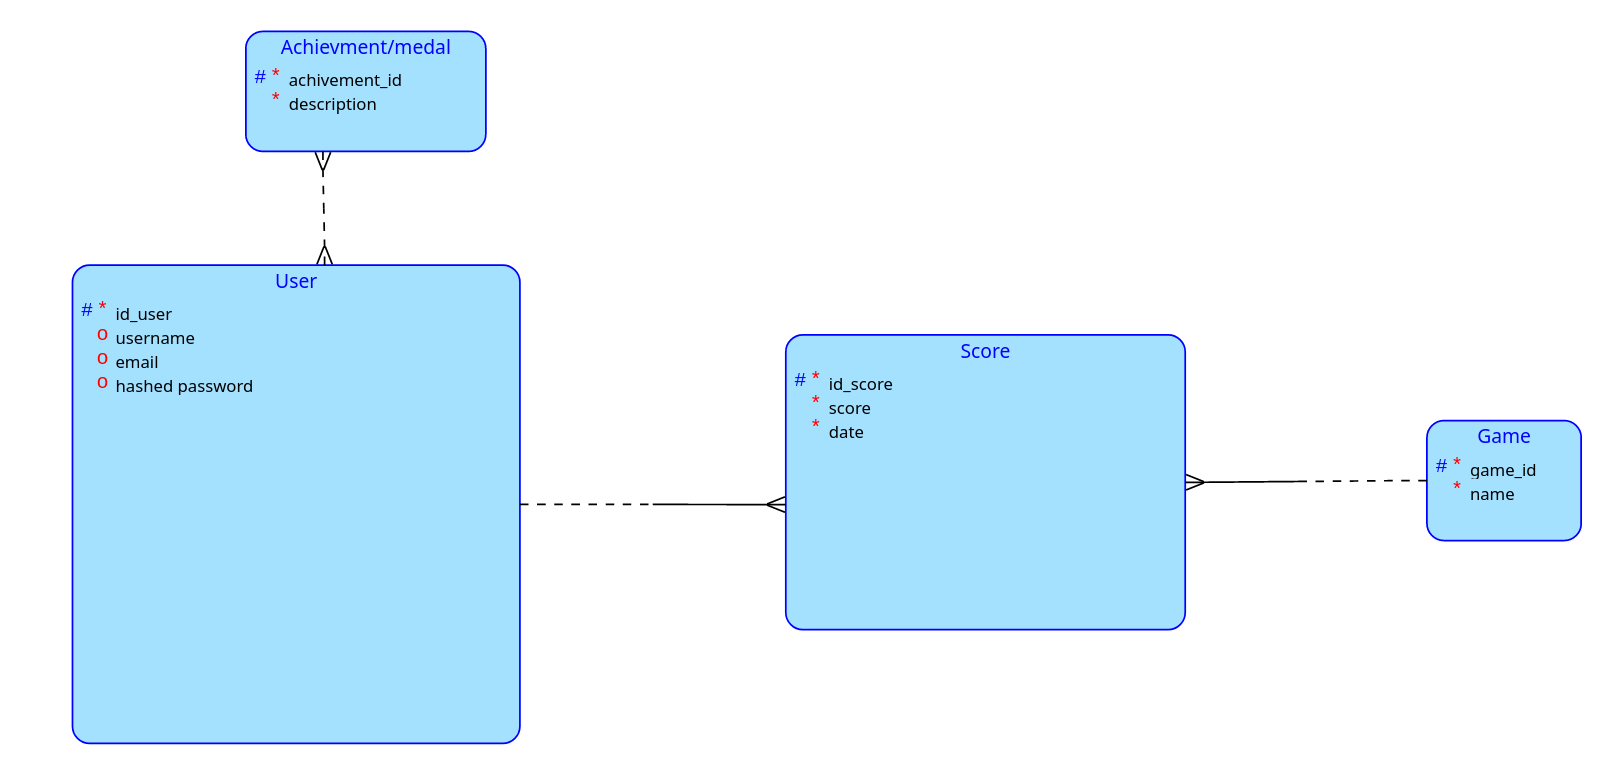
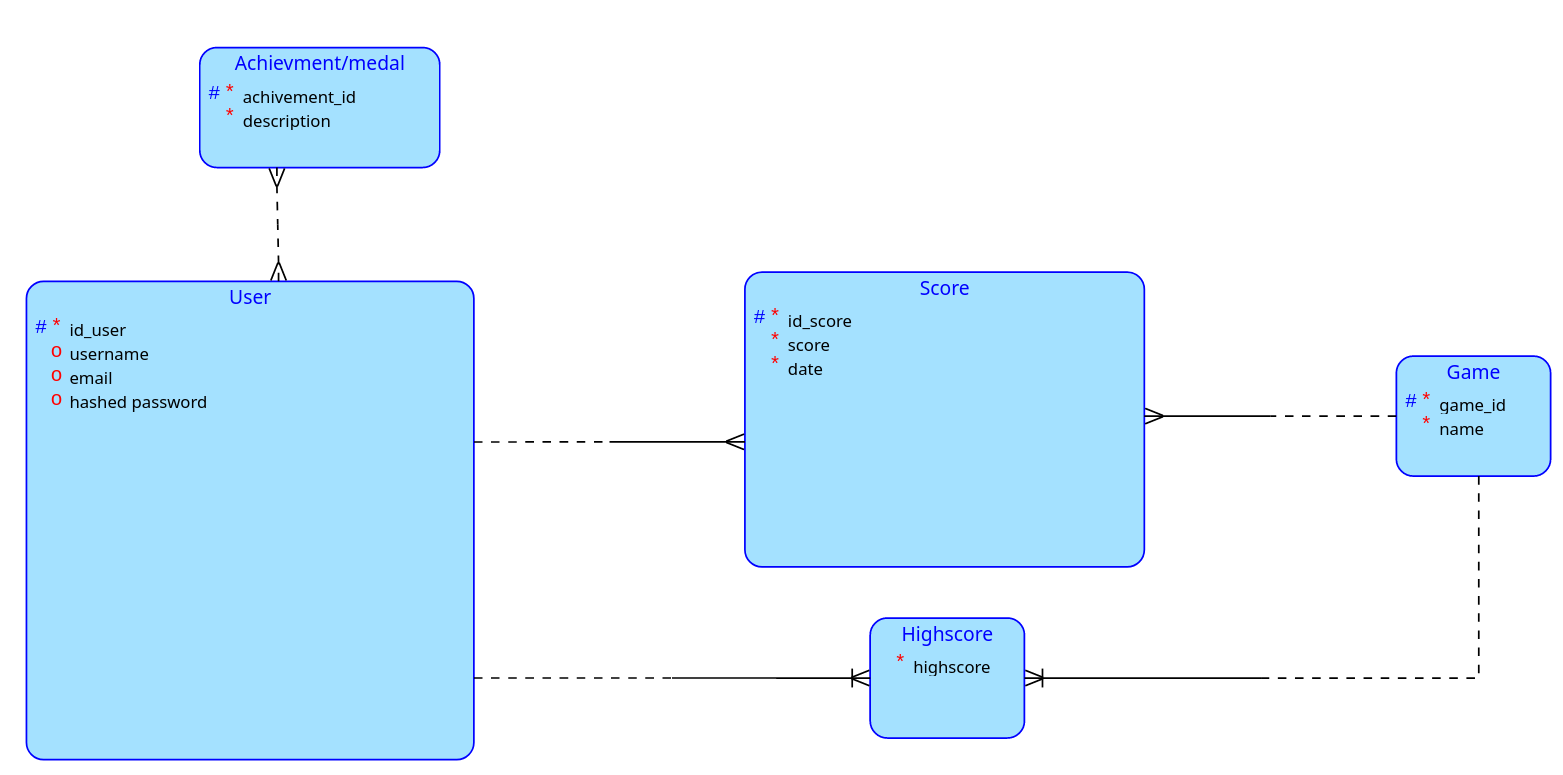
Updated readme and schema

diff --git a/README.md b/README.md
@@ -18,6 +18,10 @@ The client side will be realized as a dynamic website using html/css. Usage of a
 ## Complex database query
 Select the user with the most played games / with the highest amount of medals
 
+## Complex operation
+- Sending a score (Insert into db, read the highscore, if new score is higher then update the highscore)
+- Comparison to other players (Find the highscore of every player, calculate percentile, show it to the player)
+- Creating an account / changing a password (Check if email/ username is already present then create. Compare hashed password before updating)
 
 ## Disclaimer
 Heavily inspired by https://humanbenchmark.com/
